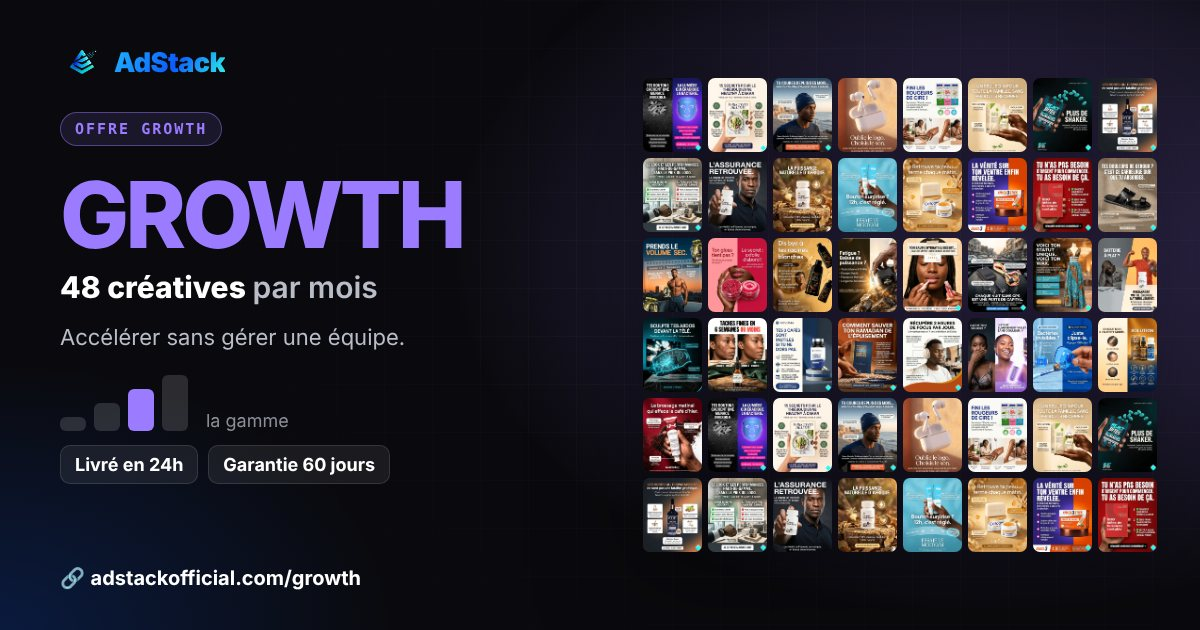
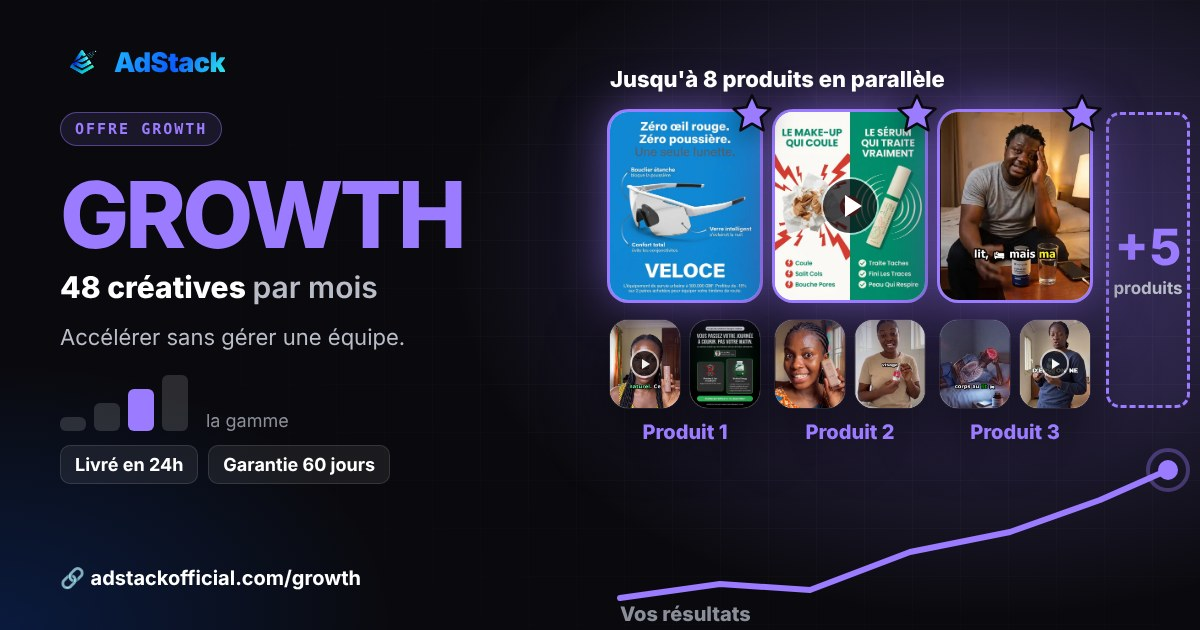
Miniatures GROWTH/SCALE + bouton choisi visible + correctif mobile

diff --git a/public/offre-growth.html b/public/offre-growth.html
@@ -9,11 +9,11 @@
 <meta property="og:title" content="Offre GROWTH | AdStack">
 <meta property="og:description" content="48 créatives par mois, livrées sous 24h, sans gérer d’équipe. Garantie Croissance 60 jours.">
 <meta property="og:url" content="https://www.adstackofficial.com/growth">
-<meta property="og:image" content="https://www.adstackofficial.com/assets/miniatures/offre-growth.jpg?v=4">
+<meta property="og:image" content="https://www.adstackofficial.com/assets/miniatures/offre-growth.jpg?v=5">
 <meta property="og:image:width" content="1200">
 <meta property="og:image:height" content="630">
 <meta name="twitter:card" content="summary_large_image">
-<meta name="twitter:image" content="https://www.adstackofficial.com/assets/miniatures/offre-growth.jpg?v=4">
+<meta name="twitter:image" content="https://www.adstackofficial.com/assets/miniatures/offre-growth.jpg?v=5">
 
 <meta name="description" content="Découvrez l’offre AdStack faite pour votre marque.">
 <link rel="icon" href="/favicon.ico">

diff --git a/public/offre-scale.html b/public/offre-scale.html
@@ -9,11 +9,11 @@
 <meta property="og:title" content="Offre SCALE | AdStack">
 <meta property="og:description" content="96 créatives par mois, plusieurs marchés, file prioritaire. Garantie Scaling 60 jours.">
 <meta property="og:url" content="https://www.adstackofficial.com/scale">
-<meta property="og:image" content="https://www.adstackofficial.com/assets/miniatures/offre-scale.jpg?v=4">
+<meta property="og:image" content="https://www.adstackofficial.com/assets/miniatures/offre-scale.jpg?v=5">
 <meta property="og:image:width" content="1200">
 <meta property="og:image:height" content="630">
 <meta name="twitter:card" content="summary_large_image">
-<meta name="twitter:image" content="https://www.adstackofficial.com/assets/miniatures/offre-scale.jpg?v=4">
+<meta name="twitter:image" content="https://www.adstackofficial.com/assets/miniatures/offre-scale.jpg?v=5">
 
 <meta name="description" content="Découvrez l’offre AdStack faite pour votre marque.">
 <link rel="icon" href="/favicon.ico">

diff --git a/src/crm/crm.css b/src/crm/crm.css
@@ -203,3 +203,8 @@ body{font-size:13.5px;line-height:1.45}
 .cx-fullbody .cx-chat{max-width:780px;margin:0 auto;gap:8px}.cx-fullbody .cx-msg{font-size:14.5px;max-width:78%}
 @media(max-width:820px){.cx-fullbody .cx-msg{max-width:90%}}
 @media(max-width:820px){.cx-full header{flex-wrap:nowrap;gap:6px}.cx-full header .t{min-width:0}.cx-full header .t b{overflow:hidden;text-overflow:ellipsis;white-space:nowrap}.cx-full header .cx-note{display:block!important;white-space:nowrap;overflow:hidden;text-overflow:ellipsis}}
+
+/* Bouton choisi (Où il en est, offres) : fond coloré + coche, bien visible sur mobile */
+.cx-opt{color:var(--tx)}
+.cx-opt.on{background:rgba(31,182,255,.18);border-color:var(--ac);color:var(--ac);box-shadow:0 0 0 2px rgba(31,182,255,.28)}
+.cx-opt.on::before{content:"✓ ";font-weight:900}

diff --git a/src/crm/domain/messages.js b/src/crm/domain/messages.js
@@ -177,7 +177,7 @@ export const CAMPAGNES_LIENS = {
   ecrit_b4: 'Écrit · offre', ecrit_b3: 'Écrit · offre (ancien)', ecrit_suite: 'Écrit · suite',
 }
 // `v` change à chaque nouvelle miniature d'offre : le lien devient « nouveau » pour WhatsApp, qui ne ressert plus l'ancien aperçu gardé en cache.
-const V_MINIATURES = 4
+const V_MINIATURES = 5
 export const lienOffreSuivi = (offreKey, campagne, medium, id) => {
   const o = OFFRES[offreKey]; if (!o) return ''
   return `https://www.adstackofficial.com/${offreKey}?utm_source=crm&utm_medium=${medium}&utm_campaign=${campagne}&utm_content=${id}&v=${V_MINIATURES}`
